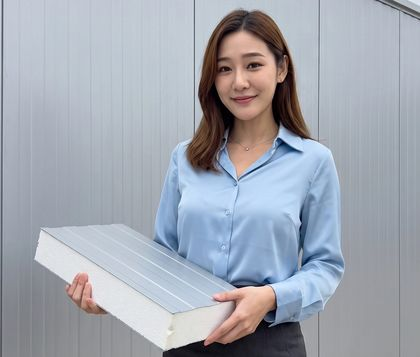
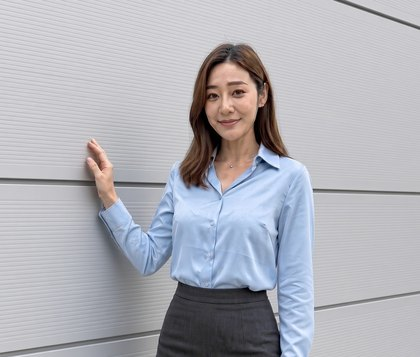
판넬 안내 모델 사진 교체 — 작은 판넬 들기 → 은회색 500골 판넬 벽을 한 손으로 짚기
사장님 2026-10-06: "은회색 500골로 된 건물 벽면 바로 앞에서서 한손으로 만지면서 카메라를 바라보는걸로. 지금 저 모델이 들고있는것처럼 판넬이란게 작지가 않아. 판넬은 폭이 무조건 1미터거든."

■ 수정: spot-panel card(720·420)·bust(330·210) jpg·webp 교체(그록 이매진에서 원본 사진 편집 — 같은 얼굴, 가로 500골 판넬 벽), alt 4쪽(products·eps·glass·urethane)
■ 검증: eps_panel 1440·390 화면 확인

diff --git a/products.html b/products.html
@@ -59,7 +59,7 @@
   </div>
 </header>
 <main id="main">
-<section class="phero has-host"><div class="wrap"><nav class="crumbs" aria-label="현재 위치"><ol><li><a href="index.html">홈</a></li><li><span aria-current="page">제품소개</span></li></ol></nav><div class="ph-row"><figure class="host host-panel"><picture><source type="image/webp" media="(max-width:719.98px)" srcset="img/model/spot-panel-bust-330.webp 330w, img/model/spot-panel-bust-210.webp 210w" sizes="104px" width="330" height="412"><source media="(max-width:719.98px)" srcset="img/model/spot-panel-bust-330.jpg 330w, img/model/spot-panel-bust-210.jpg 210w" sizes="104px" width="330" height="412"><source type="image/webp" srcset="img/model/spot-panel-card-720.webp 720w, img/model/spot-panel-card-420.webp 420w" sizes="(min-width:1024px) 380px, 260px"><img src="img/model/spot-panel-card-420.jpg" srcset="img/model/spot-panel-card-720.jpg 720w, img/model/spot-panel-card-420.jpg 420w" sizes="(min-width:1024px) 380px, 260px" width="720" height="612" alt="샌드위치판넬 단면 견본을 두 손으로 들고 소개하는 안내 모델(AI 가상 인물)" loading="lazy" decoding="async"></picture></figure><div class="ph-txt"><h1 class="phero-cat">제품소개</h1><p class="phero-desc">제품명으로 찾거나 아래 분류에서 골라보세요.</p></div></div></div></section>
+<section class="phero has-host"><div class="wrap"><nav class="crumbs" aria-label="현재 위치"><ol><li><a href="index.html">홈</a></li><li><span aria-current="page">제품소개</span></li></ol></nav><div class="ph-row"><figure class="host host-panel"><picture><source type="image/webp" media="(max-width:719.98px)" srcset="img/model/spot-panel-bust-330.webp 330w, img/model/spot-panel-bust-210.webp 210w" sizes="104px" width="330" height="412"><source media="(max-width:719.98px)" srcset="img/model/spot-panel-bust-330.jpg 330w, img/model/spot-panel-bust-210.jpg 210w" sizes="104px" width="330" height="412"><source type="image/webp" srcset="img/model/spot-panel-card-720.webp 720w, img/model/spot-panel-card-420.webp 420w" sizes="(min-width:1024px) 380px, 260px"><img src="img/model/spot-panel-card-420.jpg" srcset="img/model/spot-panel-card-720.jpg 720w, img/model/spot-panel-card-420.jpg 420w" sizes="(min-width:1024px) 380px, 260px" width="720" height="612" alt="은회색 500골 판넬로 마감한 건물 벽 앞에서 한 손으로 벽을 짚고 웃는 안내 모델(AI 가상 인물)" loading="lazy" decoding="async"></picture></figure><div class="ph-txt"><h1 class="phero-cat">제품소개</h1><p class="phero-desc">제품명으로 찾거나 아래 분류에서 골라보세요.</p></div></div></div></section>
 <div class="wrap" style="padding-top:28px;padding-bottom:64px"><article class="content product-catalog">
 <p class="lead">판넬부터 컬러강판·부자재·도어·사이딩·창문까지, 품목별 사진·도면·규격을 모두 모았습니다.</p>
 <div class="product-finder" role="search" aria-label="제품 찾기" hidden>

diff --git a/glass_panel.html b/glass_panel.html
@@ -61,7 +61,7 @@
 <main id="main">
 <section class="phero has-host"><div class="wrap">
   <nav class="crumbs" aria-label="현재 위치"><ol><li><a href="index.html">홈</a></li><li><a href="products.html">제품소개</a></li><li><a href="products.html#sandwich">샌드위치패널</a></li><li><span aria-current="page">그라스울패널</span></li></ol></nav>
-  <div class="ph-row"><figure class="host host-panel"><picture><source type="image/webp" media="(max-width:719.98px)" srcset="img/model/spot-panel-bust-330.webp 330w, img/model/spot-panel-bust-210.webp 210w" sizes="104px" width="330" height="412"><source media="(max-width:719.98px)" srcset="img/model/spot-panel-bust-330.jpg 330w, img/model/spot-panel-bust-210.jpg 210w" sizes="104px" width="330" height="412"><source type="image/webp" srcset="img/model/spot-panel-card-720.webp 720w, img/model/spot-panel-card-420.webp 420w" sizes="(min-width:1024px) 380px, 260px"><img src="img/model/spot-panel-card-420.jpg" srcset="img/model/spot-panel-card-720.jpg 720w, img/model/spot-panel-card-420.jpg 420w" sizes="(min-width:1024px) 380px, 260px" width="720" height="612" alt="샌드위치판넬 단면 견본을 두 손으로 들고 소개하는 안내 모델(AI 가상 인물)" loading="lazy" decoding="async"></picture></figure><div class="ph-txt">
+  <div class="ph-row"><figure class="host host-panel"><picture><source type="image/webp" media="(max-width:719.98px)" srcset="img/model/spot-panel-bust-330.webp 330w, img/model/spot-panel-bust-210.webp 210w" sizes="104px" width="330" height="412"><source media="(max-width:719.98px)" srcset="img/model/spot-panel-bust-330.jpg 330w, img/model/spot-panel-bust-210.jpg 210w" sizes="104px" width="330" height="412"><source type="image/webp" srcset="img/model/spot-panel-card-720.webp 720w, img/model/spot-panel-card-420.webp 420w" sizes="(min-width:1024px) 380px, 260px"><img src="img/model/spot-panel-card-420.jpg" srcset="img/model/spot-panel-card-720.jpg 720w, img/model/spot-panel-card-420.jpg 420w" sizes="(min-width:1024px) 380px, 260px" width="720" height="612" alt="은회색 500골 판넬로 마감한 건물 벽 앞에서 한 손으로 벽을 짚고 웃는 안내 모델(AI 가상 인물)" loading="lazy" decoding="async"></picture></figure><div class="ph-txt">
   <p class="phero-cat">샌드위치 패널</p>
   <p class="phero-desc">보통 컬러강판(스틸)으로 만들어진 이중 벽 구조를 가진 패널로, 내부에 단열재가 채워져 있어 열 및 소음 차단 효과가 뛰어납니다.</p>
   </div></div>

diff --git a/urethane_panel.html b/urethane_panel.html
@@ -61,7 +61,7 @@
 <main id="main">
 <section class="phero has-host"><div class="wrap">
   <nav class="crumbs" aria-label="현재 위치"><ol><li><a href="index.html">홈</a></li><li><a href="products.html">제품소개</a></li><li><a href="products.html#sandwich">샌드위치패널</a></li><li><span aria-current="page">우레탄패널</span></li></ol></nav>
-  <div class="ph-row"><figure class="host host-panel"><picture><source type="image/webp" media="(max-width:719.98px)" srcset="img/model/spot-panel-bust-330.webp 330w, img/model/spot-panel-bust-210.webp 210w" sizes="104px" width="330" height="412"><source media="(max-width:719.98px)" srcset="img/model/spot-panel-bust-330.jpg 330w, img/model/spot-panel-bust-210.jpg 210w" sizes="104px" width="330" height="412"><source type="image/webp" srcset="img/model/spot-panel-card-720.webp 720w, img/model/spot-panel-card-420.webp 420w" sizes="(min-width:1024px) 380px, 260px"><img src="img/model/spot-panel-card-420.jpg" srcset="img/model/spot-panel-card-720.jpg 720w, img/model/spot-panel-card-420.jpg 420w" sizes="(min-width:1024px) 380px, 260px" width="720" height="612" alt="샌드위치판넬 단면 견본을 두 손으로 들고 소개하는 안내 모델(AI 가상 인물)" loading="lazy" decoding="async"></picture></figure><div class="ph-txt">
+  <div class="ph-row"><figure class="host host-panel"><picture><source type="image/webp" media="(max-width:719.98px)" srcset="img/model/spot-panel-bust-330.webp 330w, img/model/spot-panel-bust-210.webp 210w" sizes="104px" width="330" height="412"><source media="(max-width:719.98px)" srcset="img/model/spot-panel-bust-330.jpg 330w, img/model/spot-panel-bust-210.jpg 210w" sizes="104px" width="330" height="412"><source type="image/webp" srcset="img/model/spot-panel-card-720.webp 720w, img/model/spot-panel-card-420.webp 420w" sizes="(min-width:1024px) 380px, 260px"><img src="img/model/spot-panel-card-420.jpg" srcset="img/model/spot-panel-card-720.jpg 720w, img/model/spot-panel-card-420.jpg 420w" sizes="(min-width:1024px) 380px, 260px" width="720" height="612" alt="은회색 500골 판넬로 마감한 건물 벽 앞에서 한 손으로 벽을 짚고 웃는 안내 모델(AI 가상 인물)" loading="lazy" decoding="async"></picture></figure><div class="ph-txt">
   <p class="phero-cat">샌드위치 패널</p>
   <p class="phero-desc">보통 컬러강판(스틸)으로 만들어진 이중 벽 구조를 가진 패널로, 내부에 단열재가 채워져 있어 열 및 소음 차단 효과가 뛰어납니다.</p>
   </div></div>

diff --git a/eps_panel.html b/eps_panel.html
@@ -61,7 +61,7 @@
 <main id="main">
 <section class="phero has-host"><div class="wrap">
   <nav class="crumbs" aria-label="현재 위치"><ol><li><a href="index.html">홈</a></li><li><a href="products.html">제품소개</a></li><li><a href="products.html#sandwich">샌드위치패널</a></li><li><span aria-current="page">EPS패널</span></li></ol></nav>
-  <div class="ph-row"><figure class="host host-panel"><picture><source type="image/webp" media="(max-width:719.98px)" srcset="img/model/spot-panel-bust-330.webp 330w, img/model/spot-panel-bust-210.webp 210w" sizes="104px" width="330" height="412"><source media="(max-width:719.98px)" srcset="img/model/spot-panel-bust-330.jpg 330w, img/model/spot-panel-bust-210.jpg 210w" sizes="104px" width="330" height="412"><source type="image/webp" srcset="img/model/spot-panel-card-720.webp 720w, img/model/spot-panel-card-420.webp 420w" sizes="(min-width:1024px) 380px, 260px"><img src="img/model/spot-panel-card-420.jpg" srcset="img/model/spot-panel-card-720.jpg 720w, img/model/spot-panel-card-420.jpg 420w" sizes="(min-width:1024px) 380px, 260px" width="720" height="612" alt="샌드위치판넬 단면 견본을 두 손으로 들고 소개하는 안내 모델(AI 가상 인물)" loading="lazy" decoding="async"></picture></figure><div class="ph-txt">
+  <div class="ph-row"><figure class="host host-panel"><picture><source type="image/webp" media="(max-width:719.98px)" srcset="img/model/spot-panel-bust-330.webp 330w, img/model/spot-panel-bust-210.webp 210w" sizes="104px" width="330" height="412"><source media="(max-width:719.98px)" srcset="img/model/spot-panel-bust-330.jpg 330w, img/model/spot-panel-bust-210.jpg 210w" sizes="104px" width="330" height="412"><source type="image/webp" srcset="img/model/spot-panel-card-720.webp 720w, img/model/spot-panel-card-420.webp 420w" sizes="(min-width:1024px) 380px, 260px"><img src="img/model/spot-panel-card-420.jpg" srcset="img/model/spot-panel-card-720.jpg 720w, img/model/spot-panel-card-420.jpg 420w" sizes="(min-width:1024px) 380px, 260px" width="720" height="612" alt="은회색 500골 판넬로 마감한 건물 벽 앞에서 한 손으로 벽을 짚고 웃는 안내 모델(AI 가상 인물)" loading="lazy" decoding="async"></picture></figure><div class="ph-txt">
   <p class="phero-cat">샌드위치 패널</p>
   <p class="phero-desc">보통 컬러강판(스틸)으로 만들어진 이중 벽 구조를 가진 패널로, 내부에 단열재가 채워져 있어 열 및 소음 차단 효과가 뛰어납니다.</p>
   </div></div>
